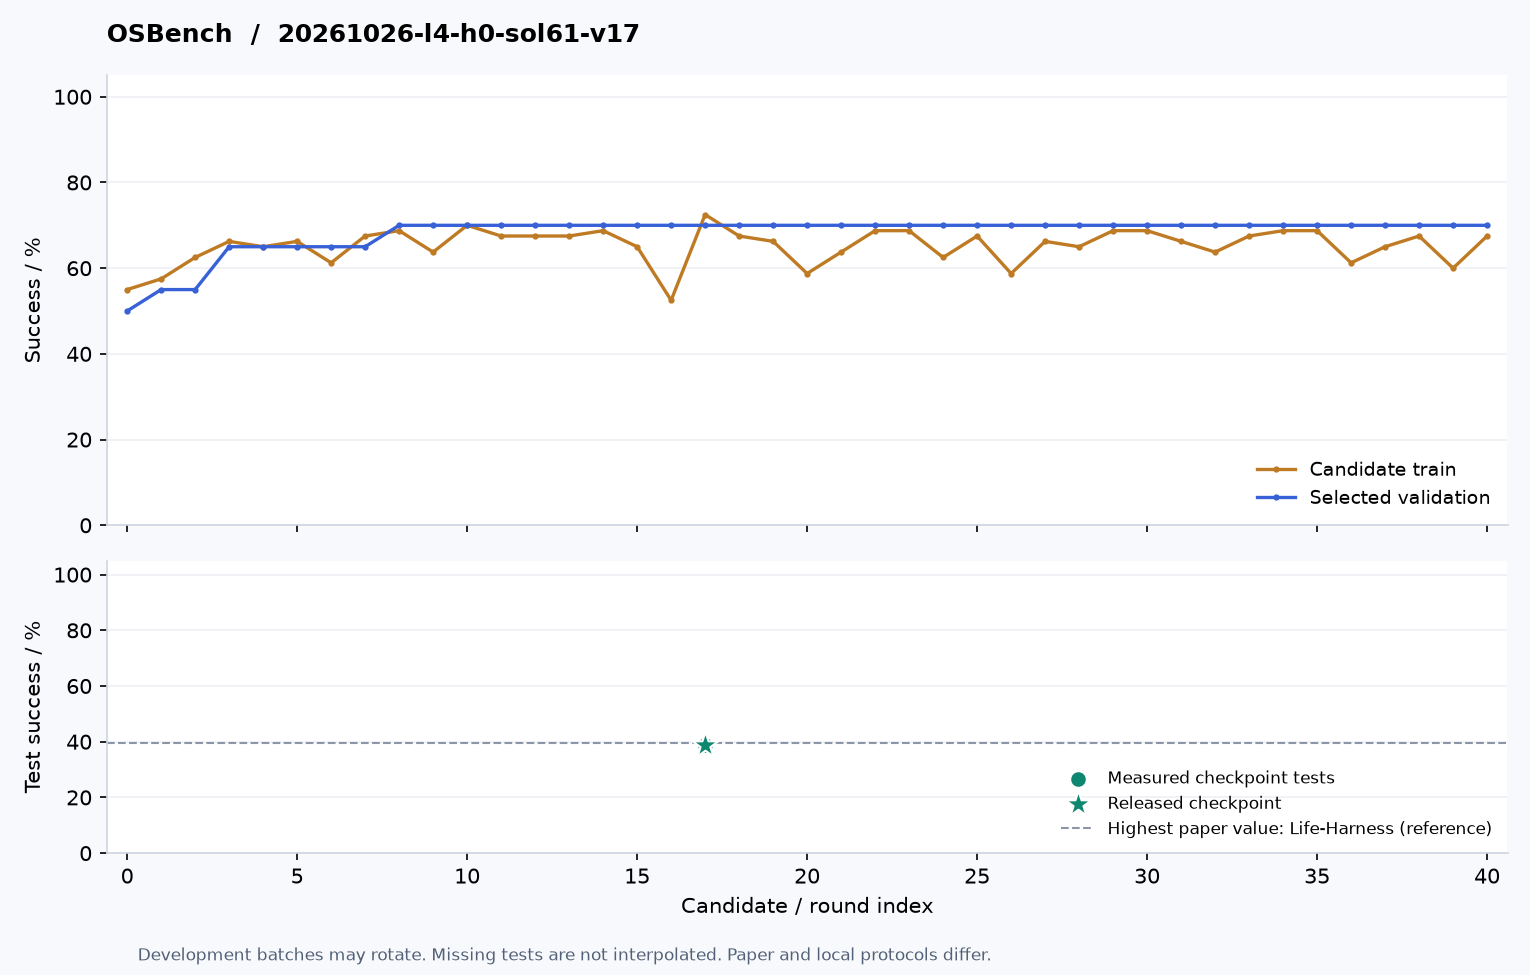
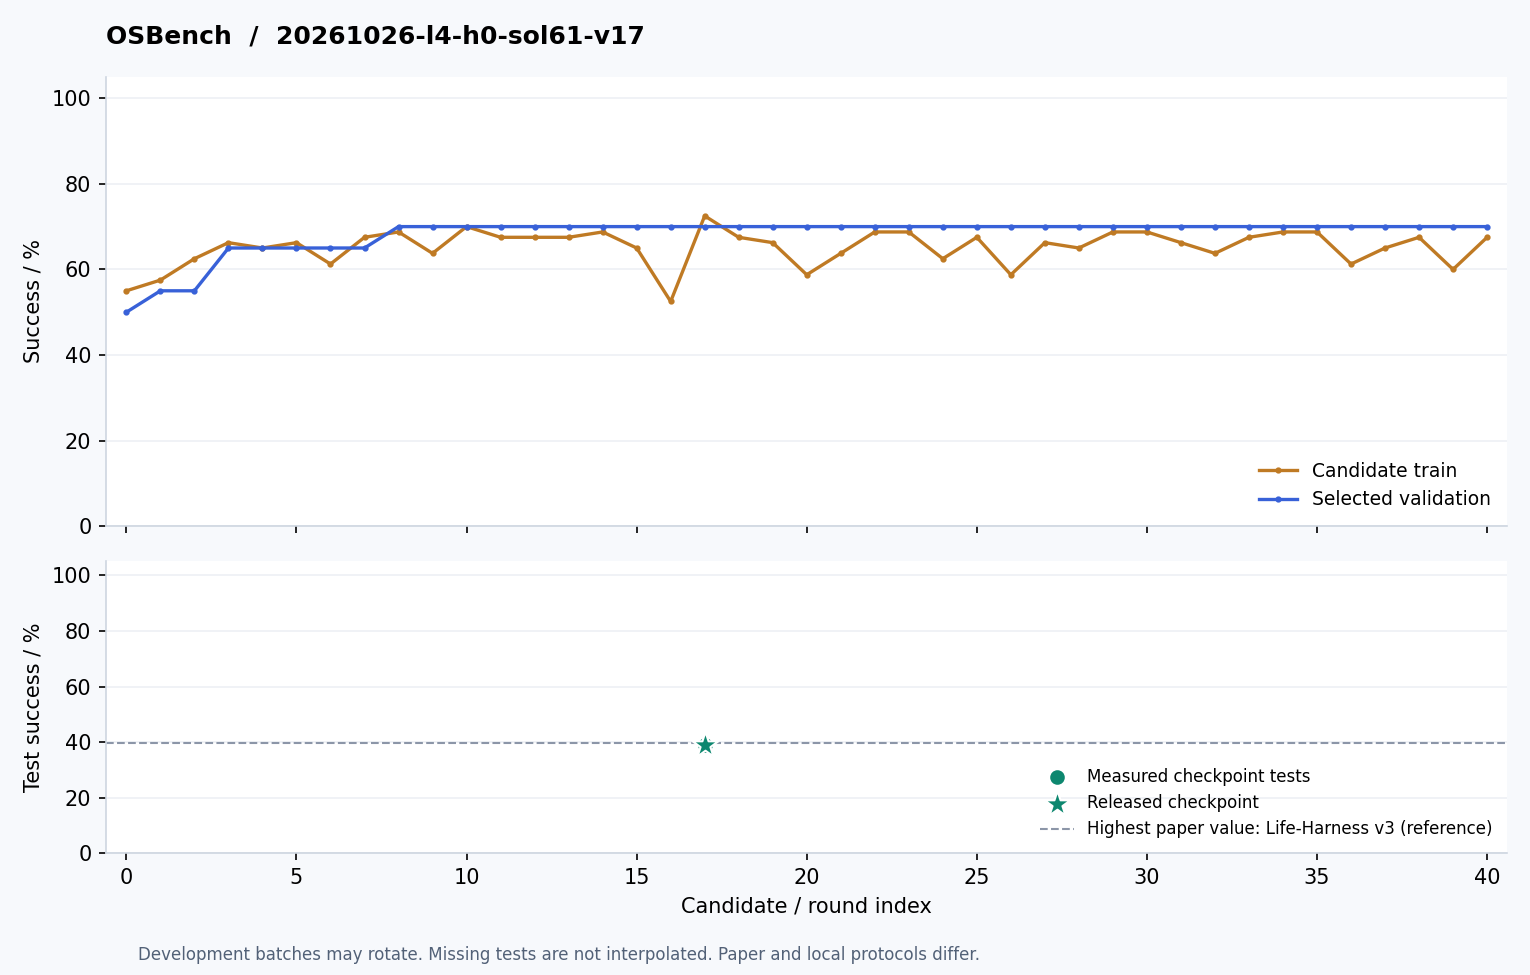
Show historical Telecom paper waterlines alongside current results in both languages

diff --git a/tools/history.py b/tools/history.py
@@ -1,0 +1,56 @@
+"""Keep historical and current paper waterlines visible together."""
+import json,re
+from pathlib import Path
+import matplotlib.pyplot as plt
+from matplotlib.patches import FancyBboxPatch
+from matplotlib.font_manager import FontProperties
+
+def pct(value):return f'{value*100:.2f}%'
+def data(root):return json.loads((root/'results/life-harness-telecom-history.json').read_text())['versions']
+
+def figure(root,ours,zh):
+ versions=data(root);old=versions[0];new=versions[-1];gain=(ours['metrics']['pass_at_1']-old['metrics']['pass_at_1'])*100
+ font=None
+ if zh:
+  for p in ['/usr/share/fonts/opentype/noto/NotoSansCJK-Regular.ttc','/System/Library/Fonts/STHeiti Medium.ttc']:
+   if Path(p).exists():font=FontProperties(fname=p);break
+ fig=plt.figure(figsize=(12.8,4.4),dpi=160);ax=fig.add_axes([0,0,1,1]);ax.set_xlim(0,1280);ax.set_ylim(440,0);ax.axis('off');fig.patch.set_facecolor('#f2f5fa')
+ def text(x,y,s,**kw):ax.text(x,y,s,fontproperties=font,va='center',**kw)
+ text(35,35,'TELECOM / '+('历史版本对照' if zh else 'VERSIONED REFERENCES'),color='#526c88',fontsize=11,fontweight='bold')
+ text(35,78,(f'比 v1 / v2 历史报告高 {gain:.2f} 个百分点' if zh else f'{gain:+.2f} pp above the v1 / v2 historical report'),color='#12364c',fontsize=23,fontweight='bold')
+ text(35,112,'Qwen3-4B · 成功率数值对照；不是同协议因果提升' if zh else 'Qwen3-4B · Descriptive success-rate comparison, not a matched-protocol causal gain',color='#67788c',fontsize=10)
+ entries=[('Life-Harness v1 / v2','2026-05-21 / 2026-05-27',old['metrics'],False),('我们的发布产物' if zh else 'Our released harness',ours['published_on'],ours['metrics'],True),('Life-Harness v3',new['published_on'],new['metrics'],False)]
+ for i,(label,date,m,highlight) in enumerate(entries):
+  x=25+i*420
+  ax.add_patch(FancyBboxPatch((x,145),390,211,boxstyle='round,pad=0,rounding_size=14',facecolor='#e3f5ef' if highlight else 'white',edgecolor='#b5dfd1' if highlight else '#e0e6ee'))
+  text(x+22,178,label,fontsize=16,color='#0c7968' if highlight else '#344967',fontweight='bold')
+  text(x+22,205,date,fontsize=10,color='#778498')
+  text(x+22,251,pct(m['pass_at_1']),fontsize=36,color='#0c7968' if highlight else '#344967',fontweight='bold')
+  text(x+22,287,'Pass@1 · '+('单次成功率' if zh else 'success'),fontsize=11,color='#63758b')
+  text(x+22,329,('三次全成功率 ' if zh else 'All-three success ')+pct(m['pass_cubed']),fontsize=13,color='#344967')
+ text(35,386,'旧版与新版均保留。论文用户模型：DeepSeek-V4-Flash；我们：GLM-5.3-Flash，并含账户事实与额外复核。' if zh else 'Both paper versions remain visible. Paper user: DeepSeek-V4-Flash; ours: GLM-5.3-Flash, with account facts/review.',fontsize=9,color='#67788c')
+ text(35,414,'来源：arXiv v1 表 7、v2 表 8、v3 表 10。日期指论文版本日期；不是同一产物的连续评测。' if zh else 'Sources: arXiv v1 Table 7, v2 Table 8, v3 Table 10. Dates identify paper versions, not one continuous evaluation.',fontsize=9,color='#778498')
+ fig.savefig(root/'assets'/('telecom-history.zh-CN.png' if zh else 'telecom-history.png'),dpi=160,facecolor=fig.get_facecolor());plt.close(fig)
+
+def section(root,ours,zh,full=True):
+ versions=data(root);old=versions[0]['metrics'];m=ours['metrics'];gap1=(m['pass_at_1']-old['pass_at_1'])*100;gap3=(m['pass_cubed']-old['pass_cubed'])*100
+ lines=['## '+('Telecom：历史水位与当前产物' if zh else 'Telecom: historical waterlines and our release'),'']
+ lines += [f"![{'Telecom 新旧版本对照' if zh else 'Telecom historical and current references'}](assets/telecom-history{'.zh-CN' if zh else ''}.png)",'']
+ if zh:lines += [f"**相对 v1/v2 的报告值，我们的成功率高 {gap1:.2f} 个百分点，三次全成功率高 {gap3:.2f} 个百分点。**新版 v3 仍并列展示；这是跨报告的数值差，不是同协议因果增益。",'']
+ else:lines += [f"**Our Pass@1 is {gap1:.2f} pp higher than the v1/v2 report; all-three success is {gap3:.2f} pp higher.** The newer v3 result remains visible. These are cross-report numerical differences, not matched-protocol causal gains.",'']
+ if full:
+  lines += ['| '+('版本 / 产物 | 日期 | Pass@1 | Pass@3 至少一次 | Pass³ 三次全成功 |' if zh else 'Version / artifact | Date | Pass@1 | Pass@3 at least one | Pass³ all three |'),'|---|---|---:|---:|---:|']
+  for v in versions:
+   q=v['metrics'];lines.append(f"| [Life-Harness {v['version']}]({v['source_url']}) | {v['published_on']} | {pct(q['pass_at_1'])} | {pct(q['pass_at_3'])} | {pct(q['pass_cubed'])} |")
+  lines += [f"| [{'我们' if zh else 'Ours'} · {ours['checkpoint']}]({ours['artifact']}{'/README.zh-CN.md' if zh else ''}) | {ours['published_on']} | **{pct(m['pass_at_1'])}** | **{pct(m['pass_at_3'])}** | **{pct(m['pass_cubed'])}** |",'']
+ lines += [('来源：[v1 表 7](https://arxiv.org/html/2605.22166v1)、[v2 表 8](https://arxiv.org/html/2605.22166v2)、[v3 表 10](https://arxiv.org/html/2605.22166v3)。均取 Qwen3-4B 行，不混入 18 模型均值。旧新版论文均使用 DeepSeek-V4-Flash 用户模型；我们使用 GLM-5.3-Flash，另有账户事实与额外复核接口，不能直接归因于 loop。' if zh else 'Sources: [v1 Table 7](https://arxiv.org/html/2605.22166v1), [v2 Table 8](https://arxiv.org/html/2605.22166v2), [v3 Table 10](https://arxiv.org/html/2605.22166v3). These are Qwen3-4B rows, not the 18-model averages. Both old and new papers use DeepSeek-V4-Flash users; ours uses GLM-5.3-Flash plus account-facts/review integration. Differences cannot be attributed to the loop alone.'),'']
+ return '\n'.join(lines)
+
+def render(root,ours):
+ for zh in [False,True]:
+  figure(root,ours,zh)
+  suffix='.zh-CN' if zh else ''
+  for prefix,anchor,full in [('README','## 选择 Harness 产物' if zh else '## Choose a harness',False),('LEADERBOARD','## 每种方法做什么' if zh else '## What each method does',True)]:
+   path=root/(prefix+suffix+'.md');text=path.read_text();text=re.sub(r'<!-- TELECOM-HISTORY:START -->.*?<!-- TELECOM-HISTORY:END -->\n*','',text,flags=re.S)
+   content='<!-- TELECOM-HISTORY:START -->\n\n'+section(root,ours,zh,full)+'\n<!-- TELECOM-HISTORY:END -->\n\n'
+   path.write_text(text.replace(anchor,content+anchor,1))

diff --git a/tools/comparison.py b/tools/comparison.py
@@ -1,5 +1,6 @@
 """Bilingual, release-driven views of published artifacts and paper baselines."""
 import json
+import history
 from pathlib import Path
 import matplotlib.pyplot as plt
 from matplotlib.patches import FancyBboxPatch
@@ -33,7 +34,7 @@ def overview(root,winners,catalog,zh=False):
  text(52,188,'产物 / 检查点' if zh else 'ARTIFACT / CHECKPOINT',fontsize=11,color='#69778c',fontweight='bold')
  for x,label in zip(xs,labels):
   text(x,181,label,ha='center',fontsize=11,color='#0c7968' if label==labels[-1] else '#344967',fontweight='bold')
-  text(x,203,('本地实测' if zh else 'LOCAL TEST') if label==labels[-1] else ('论文报告' if zh else 'PAPER'),ha='center',fontsize=8,color='#8792a3')
+  text(x,203,('本地实测' if zh else 'LOCAL TEST') if label==labels[-1] else ('论文 v3' if zh else 'PAPER v3') if label=='Life-Harness' else ('论文报告' if zh else 'PAPER'),ha='center',fontsize=8,color='#8792a3')
  for i,(d,r) in enumerate(winners.items()):
   y=222+i*78
   if i%2==0:ax.add_patch(FancyBboxPatch((36,y),1378,72,boxstyle='round,pad=0,rounding_size=10',facecolor='#f5f7fb',edgecolor='none'))
@@ -43,6 +44,9 @@ def overview(root,winners,catalog,zh=False):
   values=[m['pass_at_1'][d] for m in catalog['methods']]+[r['metrics']['pass_at_1']]
   for j,(x,value) in enumerate(zip(xs,values)):
    text(x,y+34,'—' if value is None else f'{value*100:.2f}',ha='center',fontsize=19 if j==6 else 16,fontweight='bold' if j==6 else 'normal',color='#0c7968' if j==6 else '#a3acb9' if value is None else '#344967')
+   if d=='telecom' and j==5:
+    old=history.data(root)[0]['metrics']['pass_at_1']
+    text(x,y+58,f'v1/v2: {old*100:.2f}',ha='center',fontsize=8,color='#66768b')
  text(52,639,'数值单位：%  ·  — 表示论文未报告该场景  ·  每个产物均附源码、框图和进化曲线' if zh else 'All values in %  ·  — = not reported for this setting  ·  Source, architecture and evolution curve included',fontsize=10,color='#53657b')
  text(52,671,'对照来源：Life-Harness 论文表 1、10、11；其作者报告的其他方法结果，并非我们的复测。' if zh else 'References: Life-Harness Tables 1, 10 and 11. Other-method results are reported by that paper, not rerun by us.',fontsize=9,color='#778498')
  text(52,699,'轮数、优化模型、测试重复次数存在差异；ALIGN 划分不同；Telecom 用户模拟器及运行接口不同。' if zh else 'Evolution budgets and trials differ. ALIGN uses its own split. Telecom simulator and runtime-access protocols differ.',fontsize=9,color='#778498')
@@ -135,6 +139,7 @@ def render(root,winners,rows,refs,local):
  catalog=json.loads((root/'results/paper-baselines.json').read_text())
  for zh in [False,True]:overview(root,winners,catalog,zh);leaderboard(root,winners,rows,catalog,refs,local,zh)
  chinese_readme(root,winners)
+ history.render(root,winners['telecom'])
  for r in rows:artifact_zh(root,r)
  curves=['# 进化曲线','','[English](CURVES.md) | **简体中文**','','只展示真实记录的开发成绩与测试点；未测检查点不补画测试分数。','']
  for d,r in winners.items():curves += [f'## {NAMES[d]}','',f"[检查点 {r['checkpoint']}：源码与框图](../{r['artifact']}/README.zh-CN.md)",'',f"![{NAMES[d]} 进化曲线](../{r['artifact']}/evolution.png)",'']

diff --git a/tools/build.py b/tools/build.py
@@ -103,6 +103,6 @@ def main():
   curves += [f"## {NAMES[d]}",'',f"[{r['release_id']} — architecture and plugins](../{r['artifact']})",'',f"![{NAMES[d]} evolution](../{r['artifact']}/evolution.png)",'']
  (ROOT/'docs/CURVES.md').write_text('\n'.join(curves))
  comparison.render(ROOT,winners,rows,refs,local)
- (ROOT/'results/leaderboard.json').write_text(json.dumps({'schema_version':1,'update_mode':'release-driven','champions':winners,'releases':rows,'paper_references':catalog},ensure_ascii=False,indent=2)+'\n')
+ (ROOT/'results/leaderboard.json').write_text(json.dumps({'schema_version':1,'update_mode':'release-driven','champions':winners,'releases':rows,'paper_references':catalog,'telecom_history':json.loads((ROOT/'results/life-harness-telecom-history.json').read_text())},ensure_ascii=False,indent=2)+'\n')
  print(f'Rendered {len(rows)} releases across {len(winners)} benchmarks.')
 if __name__=='__main__':main()

diff --git a/LEADERBOARD.md b/LEADERBOARD.md
@@ -4,7 +4,7 @@
 
 ![Multi-method leaderboard](assets/leaderboard.png)
 
-| Benchmark | Bare | ALIGN | AgentSquare | Meta-Harness | AHE | Life-Harness | Ours |
+| Benchmark | Bare | ALIGN | AgentSquare | Meta-Harness | AHE | Life-Harness v3 | Ours |
 |---|---|---|---|---|---|---|---|
 | ALFWorld | 16.51% | 28.36% | 29.36% | 35.80% | 89.00% | 88.07% | **95.41%** |
 | DBBench | 44.00% | — | — | 50.30% | 57.30% | 65.00% | **70.56%** |
@@ -16,6 +16,25 @@
 
 The paper evolves Meta-Harness, AHE and Life-Harness for six rounds with GPT-5.5. Our optimizer and budgets differ. Paper AgentBench uses one trial; ours uses three. ALIGN uses its released split. Telecom also differs in user simulator, account-facts access and auxiliary review. The table is a reference comparison, not a controlled overall ranking.
 
+<!-- TELECOM-HISTORY:START -->
+
+## Telecom: historical waterlines and our release
+
+![Telecom historical and current references](assets/telecom-history.png)
+
+**Our Pass@1 is 26.67 pp higher than the v1/v2 report; all-three success is 32.50 pp higher.** The newer v3 result remains visible. These are cross-report numerical differences, not matched-protocol causal gains.
+
+| Version / artifact | Date | Pass@1 | Pass@3 at least one | Pass³ all three |
+|---|---|---:|---:|---:|
+| [Life-Harness v1](https://arxiv.org/html/2605.22166v1) | 2026-05-21 | 57.50% | 87.50% | 30.00% |
+| [Life-Harness v2](https://arxiv.org/html/2605.22166v2) | 2026-05-27 | 57.50% | 87.50% | 30.00% |
+| [Life-Harness v3](https://arxiv.org/html/2605.22166v3) | 2026-10-15 | 90.00% | 100.00% | 77.50% |
+| [Ours · v06](harnesses/telecom/20261026-start-luna-repaired-v06) | 2026-10-26 | **84.17%** | **100.00%** | **62.50%** |
+
+Sources: [v1 Table 7](https://arxiv.org/html/2605.22166v1), [v2 Table 8](https://arxiv.org/html/2605.22166v2), [v3 Table 10](https://arxiv.org/html/2605.22166v3). These are Qwen3-4B rows, not the 18-model averages. Both old and new papers use DeepSeek-V4-Flash users; ours uses GLM-5.3-Flash plus account-facts/review integration. Differences cannot be attributed to the loop alone.
+
+<!-- TELECOM-HISTORY:END -->
+
 ## What each method does
 
 | Method | Approach |
@@ -25,7 +44,7 @@ The paper evolves Meta-Harness, AHE and Life-Harness for six rounds with GPT-5.5
 | AgentSquare | Searches modular agent architectures. |
 | Meta-Harness | Searches harness programs using previous code, scores, and traces. |
 | AHE | Edits harness files and checks expected effects in evaluations. |
-| Life-Harness | Evolves interventions across four interaction lifecycle layers. |
+| Life-Harness v3 | Evolves interventions across four interaction lifecycle layers. |
 | Ours | Evolve DSH plugins after mapping current capabilities; assign problem-class responsibilities and evaluate adoption. |
 
 ## Telecom reliability and WebShop mean reward

diff --git a/LEADERBOARD.zh-CN.md b/LEADERBOARD.zh-CN.md
@@ -4,7 +4,7 @@
 
 ![多方法榜单](assets/leaderboard.zh-CN.png)
 
-| 场景 | 裸模型 | ALIGN | AgentSquare | Meta-Harness | AHE | Life-Harness | 我们 |
+| 场景 | 裸模型 | ALIGN | AgentSquare | Meta-Harness | AHE | Life-Harness v3 | 我们 |
 |---|---|---|---|---|---|---|---|
 | ALFWorld | 16.51% | 28.36% | 29.36% | 35.80% | 89.00% | 88.07% | **95.41%** |
 | DBBench | 44.00% | — | — | 50.30% | 57.30% | 65.00% | **70.56%** |
@@ -16,6 +16,25 @@
 
 论文 Meta-Harness、AHE、Life-Harness 均采用 GPT-5.5 优化六轮；我们的优化器与轮数不同。论文 AgentBench 每题一次，我们每题三次。ALIGN 使用其发布划分。Telecom 还存在用户模拟器、账户事实接口与额外复核调用的差异，因此不将这些数值合成一个严格公平排名。
 
+<!-- TELECOM-HISTORY:START -->
+
+## Telecom：历史水位与当前产物
+
+![Telecom 新旧版本对照](assets/telecom-history.zh-CN.png)
+
+**相对 v1/v2 的报告值，我们的成功率高 26.67 个百分点，三次全成功率高 32.50 个百分点。**新版 v3 仍并列展示；这是跨报告的数值差，不是同协议因果增益。
+
+| 版本 / 产物 | 日期 | Pass@1 | Pass@3 至少一次 | Pass³ 三次全成功 |
+|---|---|---:|---:|---:|
+| [Life-Harness v1](https://arxiv.org/html/2605.22166v1) | 2026-05-21 | 57.50% | 87.50% | 30.00% |
+| [Life-Harness v2](https://arxiv.org/html/2605.22166v2) | 2026-05-27 | 57.50% | 87.50% | 30.00% |
+| [Life-Harness v3](https://arxiv.org/html/2605.22166v3) | 2026-10-15 | 90.00% | 100.00% | 77.50% |
+| [我们 · v06](harnesses/telecom/20261026-start-luna-repaired-v06/README.zh-CN.md) | 2026-10-26 | **84.17%** | **100.00%** | **62.50%** |
+
+来源：[v1 表 7](https://arxiv.org/html/2605.22166v1)、[v2 表 8](https://arxiv.org/html/2605.22166v2)、[v3 表 10](https://arxiv.org/html/2605.22166v3)。均取 Qwen3-4B 行，不混入 18 模型均值。旧新版论文均使用 DeepSeek-V4-Flash 用户模型；我们使用 GLM-5.3-Flash，另有账户事实与额外复核接口，不能直接归因于 loop。
+
+<!-- TELECOM-HISTORY:END -->
+
 ## 每种方法做什么
 
 | 方法 | 简明思路 |
@@ -25,7 +44,7 @@
 | AgentSquare | 搜索模块化智能体架构。 |
 | Meta-Harness | 结合历史代码、分数和轨迹搜索 harness 程序。 |
 | AHE | 修改 harness 组件文件，通过评测检验改动是否产生预期效果。 |
-| Life-Harness | 围绕交互生命周期的四层结构进化干预机制。 |
+| Life-Harness v3 | 围绕交互生命周期的四层结构进化干预机制。 |
 | 我们 | 基于 DSH 的插件进化：先维护当前能力结构，再针对问题类设计插件并评测采用。 |
 
 ## Telecom 稳定性与 WebShop 平均奖励

diff --git a/README.md b/README.md
@@ -12,6 +12,18 @@ Evolved [DSH](https://github.com/deepseek-ai/deepseek-harness) harnesses for a f
 
 **Read the scores:** compare **Bare, ALIGN, AgentSquare, Meta-Harness, AHE, Life-Harness and Ours**. Green marks our released artifacts; other columns are results reported by the Life-Harness authors. Missing results stay empty. Evolution budgets, trials, ALIGN task splits and Telecom protocols differ. [Metric definitions and comparison scope →](docs/METRICS.md)
 
+<!-- TELECOM-HISTORY:START -->
+
+## Telecom: historical waterlines and our release
+
+![Telecom historical and current references](assets/telecom-history.png)
+
+**Our Pass@1 is 26.67 pp higher than the v1/v2 report; all-three success is 32.50 pp higher.** The newer v3 result remains visible. These are cross-report numerical differences, not matched-protocol causal gains.
+
+Sources: [v1 Table 7](https://arxiv.org/html/2605.22166v1), [v2 Table 8](https://arxiv.org/html/2605.22166v2), [v3 Table 10](https://arxiv.org/html/2605.22166v3). These are Qwen3-4B rows, not the 18-model averages. Both old and new papers use DeepSeek-V4-Flash users; ours uses GLM-5.3-Flash plus account-facts/review integration. Differences cannot be attributed to the loop alone.
+
+<!-- TELECOM-HISTORY:END -->
+
 ## Choose a harness
 
 Pick a task, see what the harness does, then open its **source**, **diagram**, or **curve**. 插件源码、框图、进化曲线均可直接进入。

diff --git a/README.zh-CN.md b/README.zh-CN.md
@@ -12,6 +12,18 @@
 
 榜单包含裸模型、ALIGN、AgentSquare、Meta-Harness、AHE、Life-Harness 和我们。其他方法使用论文报告值，不是我们重跑的结果；缺失的场景留空。
 
+<!-- TELECOM-HISTORY:START -->
+
+## Telecom：历史水位与当前产物
+
+![Telecom 新旧版本对照](assets/telecom-history.zh-CN.png)
+
+**相对 v1/v2 的报告值，我们的成功率高 26.67 个百分点，三次全成功率高 32.50 个百分点。**新版 v3 仍并列展示；这是跨报告的数值差，不是同协议因果增益。
+
+来源：[v1 表 7](https://arxiv.org/html/2605.22166v1)、[v2 表 8](https://arxiv.org/html/2605.22166v2)、[v3 表 10](https://arxiv.org/html/2605.22166v3)。均取 Qwen3-4B 行，不混入 18 模型均值。旧新版论文均使用 DeepSeek-V4-Flash 用户模型；我们使用 GLM-5.3-Flash，另有账户事实与额外复核接口，不能直接归因于 loop。
+
+<!-- TELECOM-HISTORY:END -->
+
 ## 选择 Harness 产物
 
 | 场景与成绩 | 解决的问题 | 检查点 | 直接查看 |
